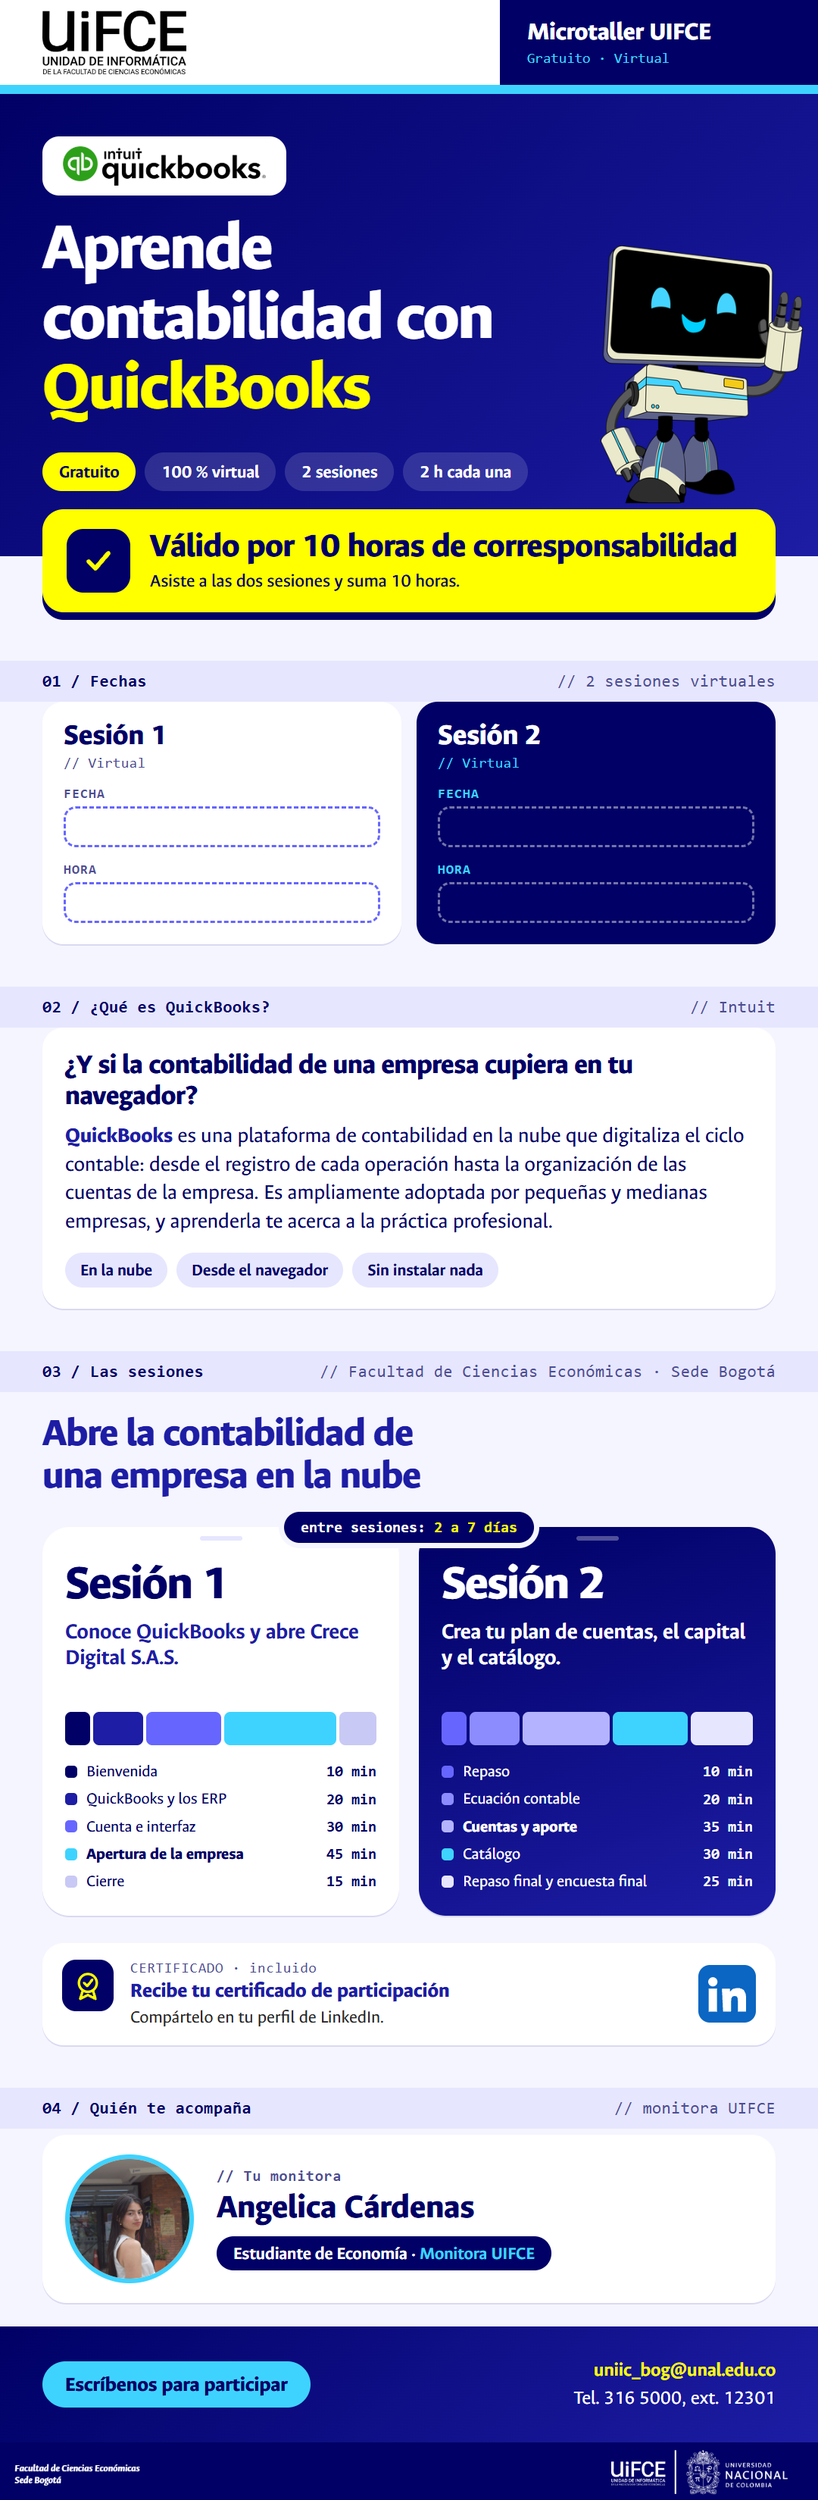
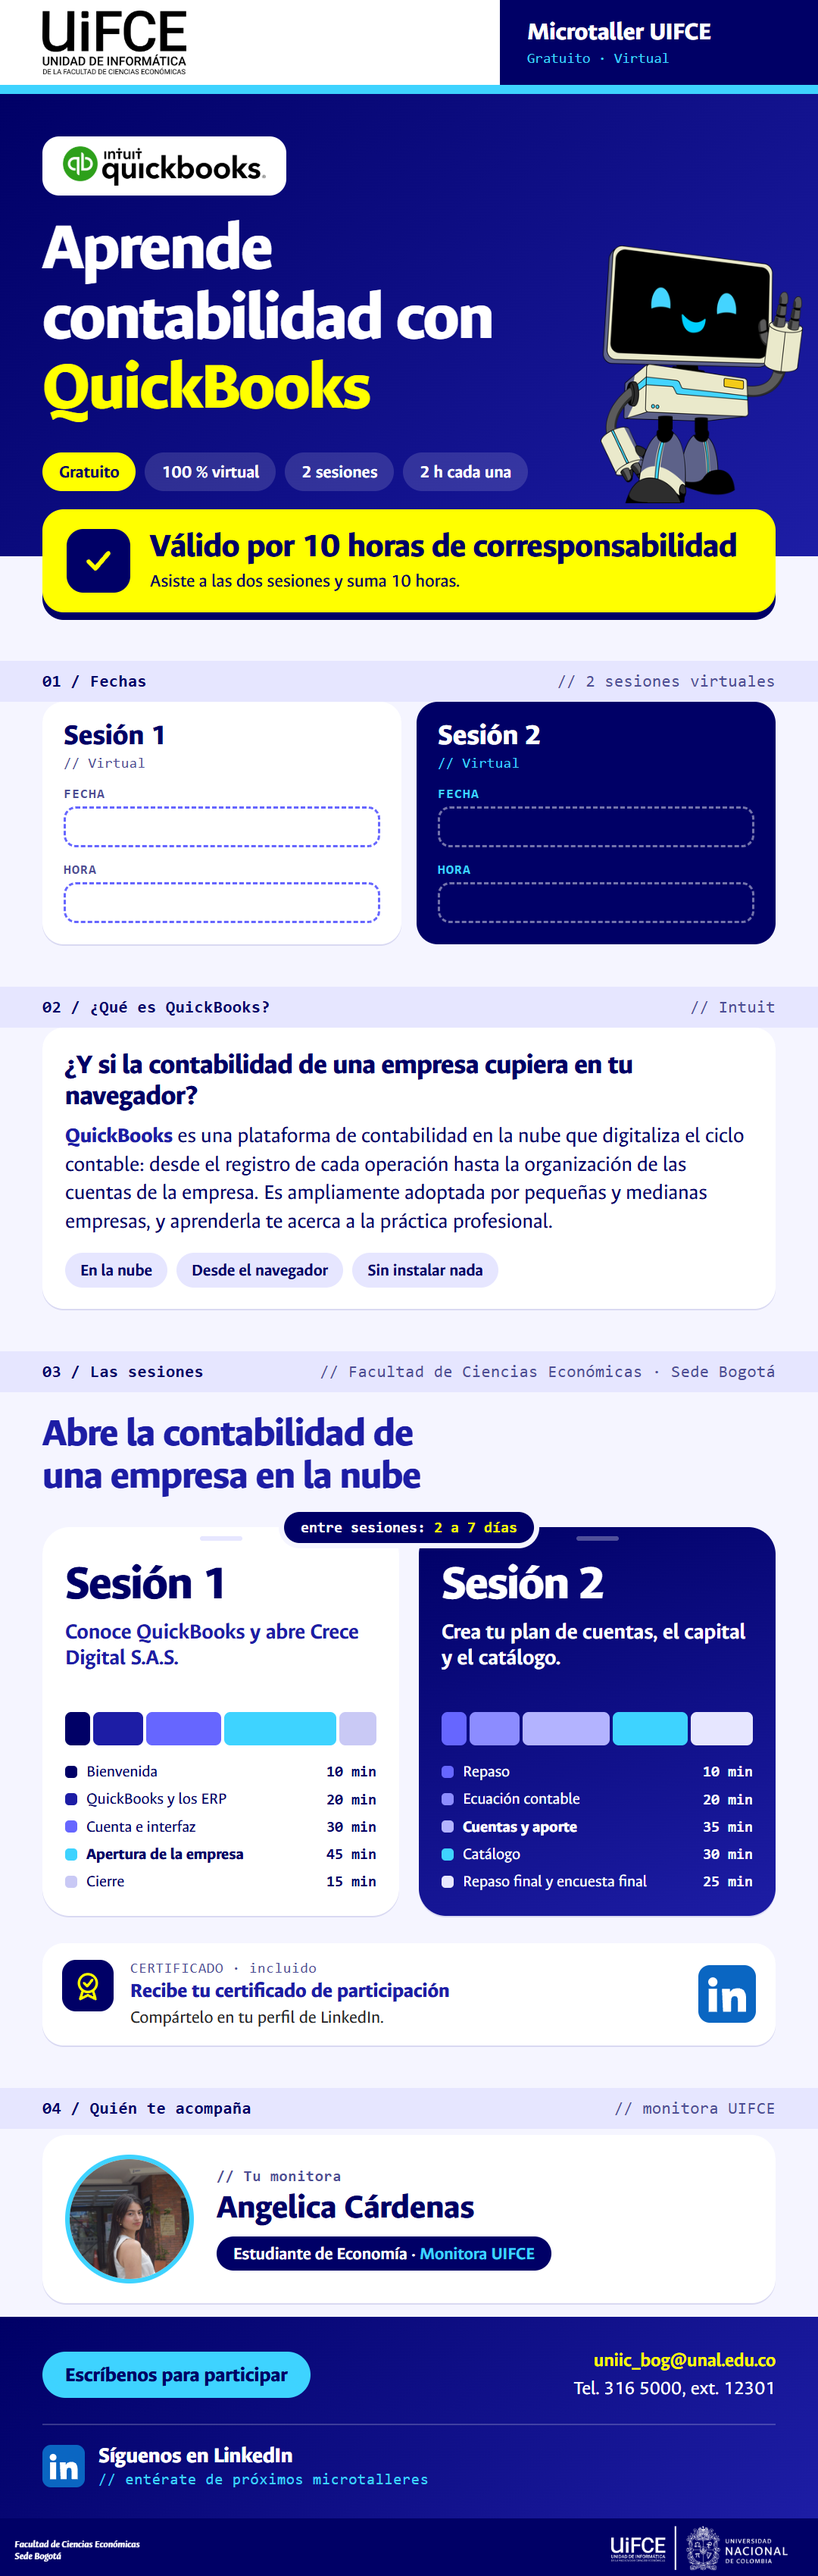
Propuesta 1: invitación a seguir en LinkedIn en el pie

diff --git a/propuesta-1/index.html b/propuesta-1/index.html
@@ -22,7 +22,7 @@
     --mono:Consolas,'SFMono-Regular',Menlo,monospace;
   }
   *{box-sizing:border-box;margin:0;padding:0}
-  body{width:1080px;height:3299px;background:var(--canvas);font-family:var(--font);color:var(--navy);position:relative;overflow:hidden}
+  body{width:1080px;height:3399px;background:var(--canvas);font-family:var(--font);color:var(--navy);position:relative;overflow:hidden}
 
   /* ---------- Encabezado de boletín ---------- */
   .top{display:flex;height:112px;background:#fff}
@@ -261,6 +261,7 @@
     <div class="btn">Escríbenos para participar</div>
     <div class="contact"><strong>uniic_bog@unal.edu.co</strong><br>Tel. 316 5000, ext. 12301</div>
   </div>
+  <a class="follow" href="https://www.linkedin.com/feed/foryou/" style="display:flex;align-items:center;gap:18px;margin-top:28px;padding-top:24px;border-top:2px solid rgba(255,255,255,.2);color:#fff;text-decoration:none"><svg viewBox="0 0 50 50" role="img" aria-label="LinkedIn" style="width:56px;height:56px;flex:none"><rect width="50" height="50" rx="10" fill="#0A66C2"/><circle cx="12.6" cy="14.6" r="4" fill="#fff"/><rect x="9" y="20.5" width="7.2" height="20" fill="#fff"/><path d="M20.5 20.5h6.9v2.9c1.2-2 3.4-3.4 6.6-3.4 6 0 7.5 3.9 7.5 9.2v11.3h-7.2V30.8c0-2.2-.4-3.9-2.6-3.9-2.4 0-3.2 1.7-3.2 4.2v9.4h-7z" fill="#fff"/></svg><span style="font-size:30px;font-weight:800;line-height:1.1">Síguenos en LinkedIn<small style="display:block;font-family:var(--mono);font-size:20px;font-weight:400;color:var(--cyan);margin-top:4px">// entérate de próximos microtalleres</small></span></a>
 </footer>
 <img class="banner" src="assets/banner-unal-fce.png" alt="Facultad de Ciencias Económicas, Sede Bogotá · UIFCE · Universidad Nacional de Colombia">
 

diff --git a/index.html b/index.html
@@ -42,7 +42,7 @@
 <main>
   <section class="panel" id="p1" role="tabpanel" aria-labelledby="tab-1">
     <div class="actions"><a href="propuesta-1/infografia.png" download>Descargar PNG ↓</a></div>
-    <div class="frame" id="frame1"><iframe id="if1" src="propuesta-1/index.html" title="Propuesta 1" scrolling="no" height="3299"></iframe></div>
+    <div class="frame" id="frame1"><iframe id="if1" src="propuesta-1/index.html" title="Propuesta 1" scrolling="no" height="3399"></iframe></div>
   </section>
   <section class="panel" id="p2" role="tabpanel" aria-labelledby="tab-2" hidden>
     <!-- Espacio reservado para la Propuesta 2: reemplaza este bloque (o apunta un iframe a propuesta-2/index.html). -->
@@ -50,7 +50,7 @@
   </section>
 </main>
 <script>
-  var H=3299, tabs=document.querySelectorAll('nav button'), panels={1:document.getElementById('p1'),2:document.getElementById('p2')};
+  var H=3399, tabs=document.querySelectorAll('nav button'), panels={1:document.getElementById('p1'),2:document.getElementById('p2')};
   function fit(){
     var k=Math.min(document.documentElement.clientWidth,1080)/1080, f=document.getElementById('frame1'), i=document.getElementById('if1');
     i.style.transform='scale('+k+')'; f.style.width=(1080*k)+'px'; f.style.height=(H*k)+'px';
